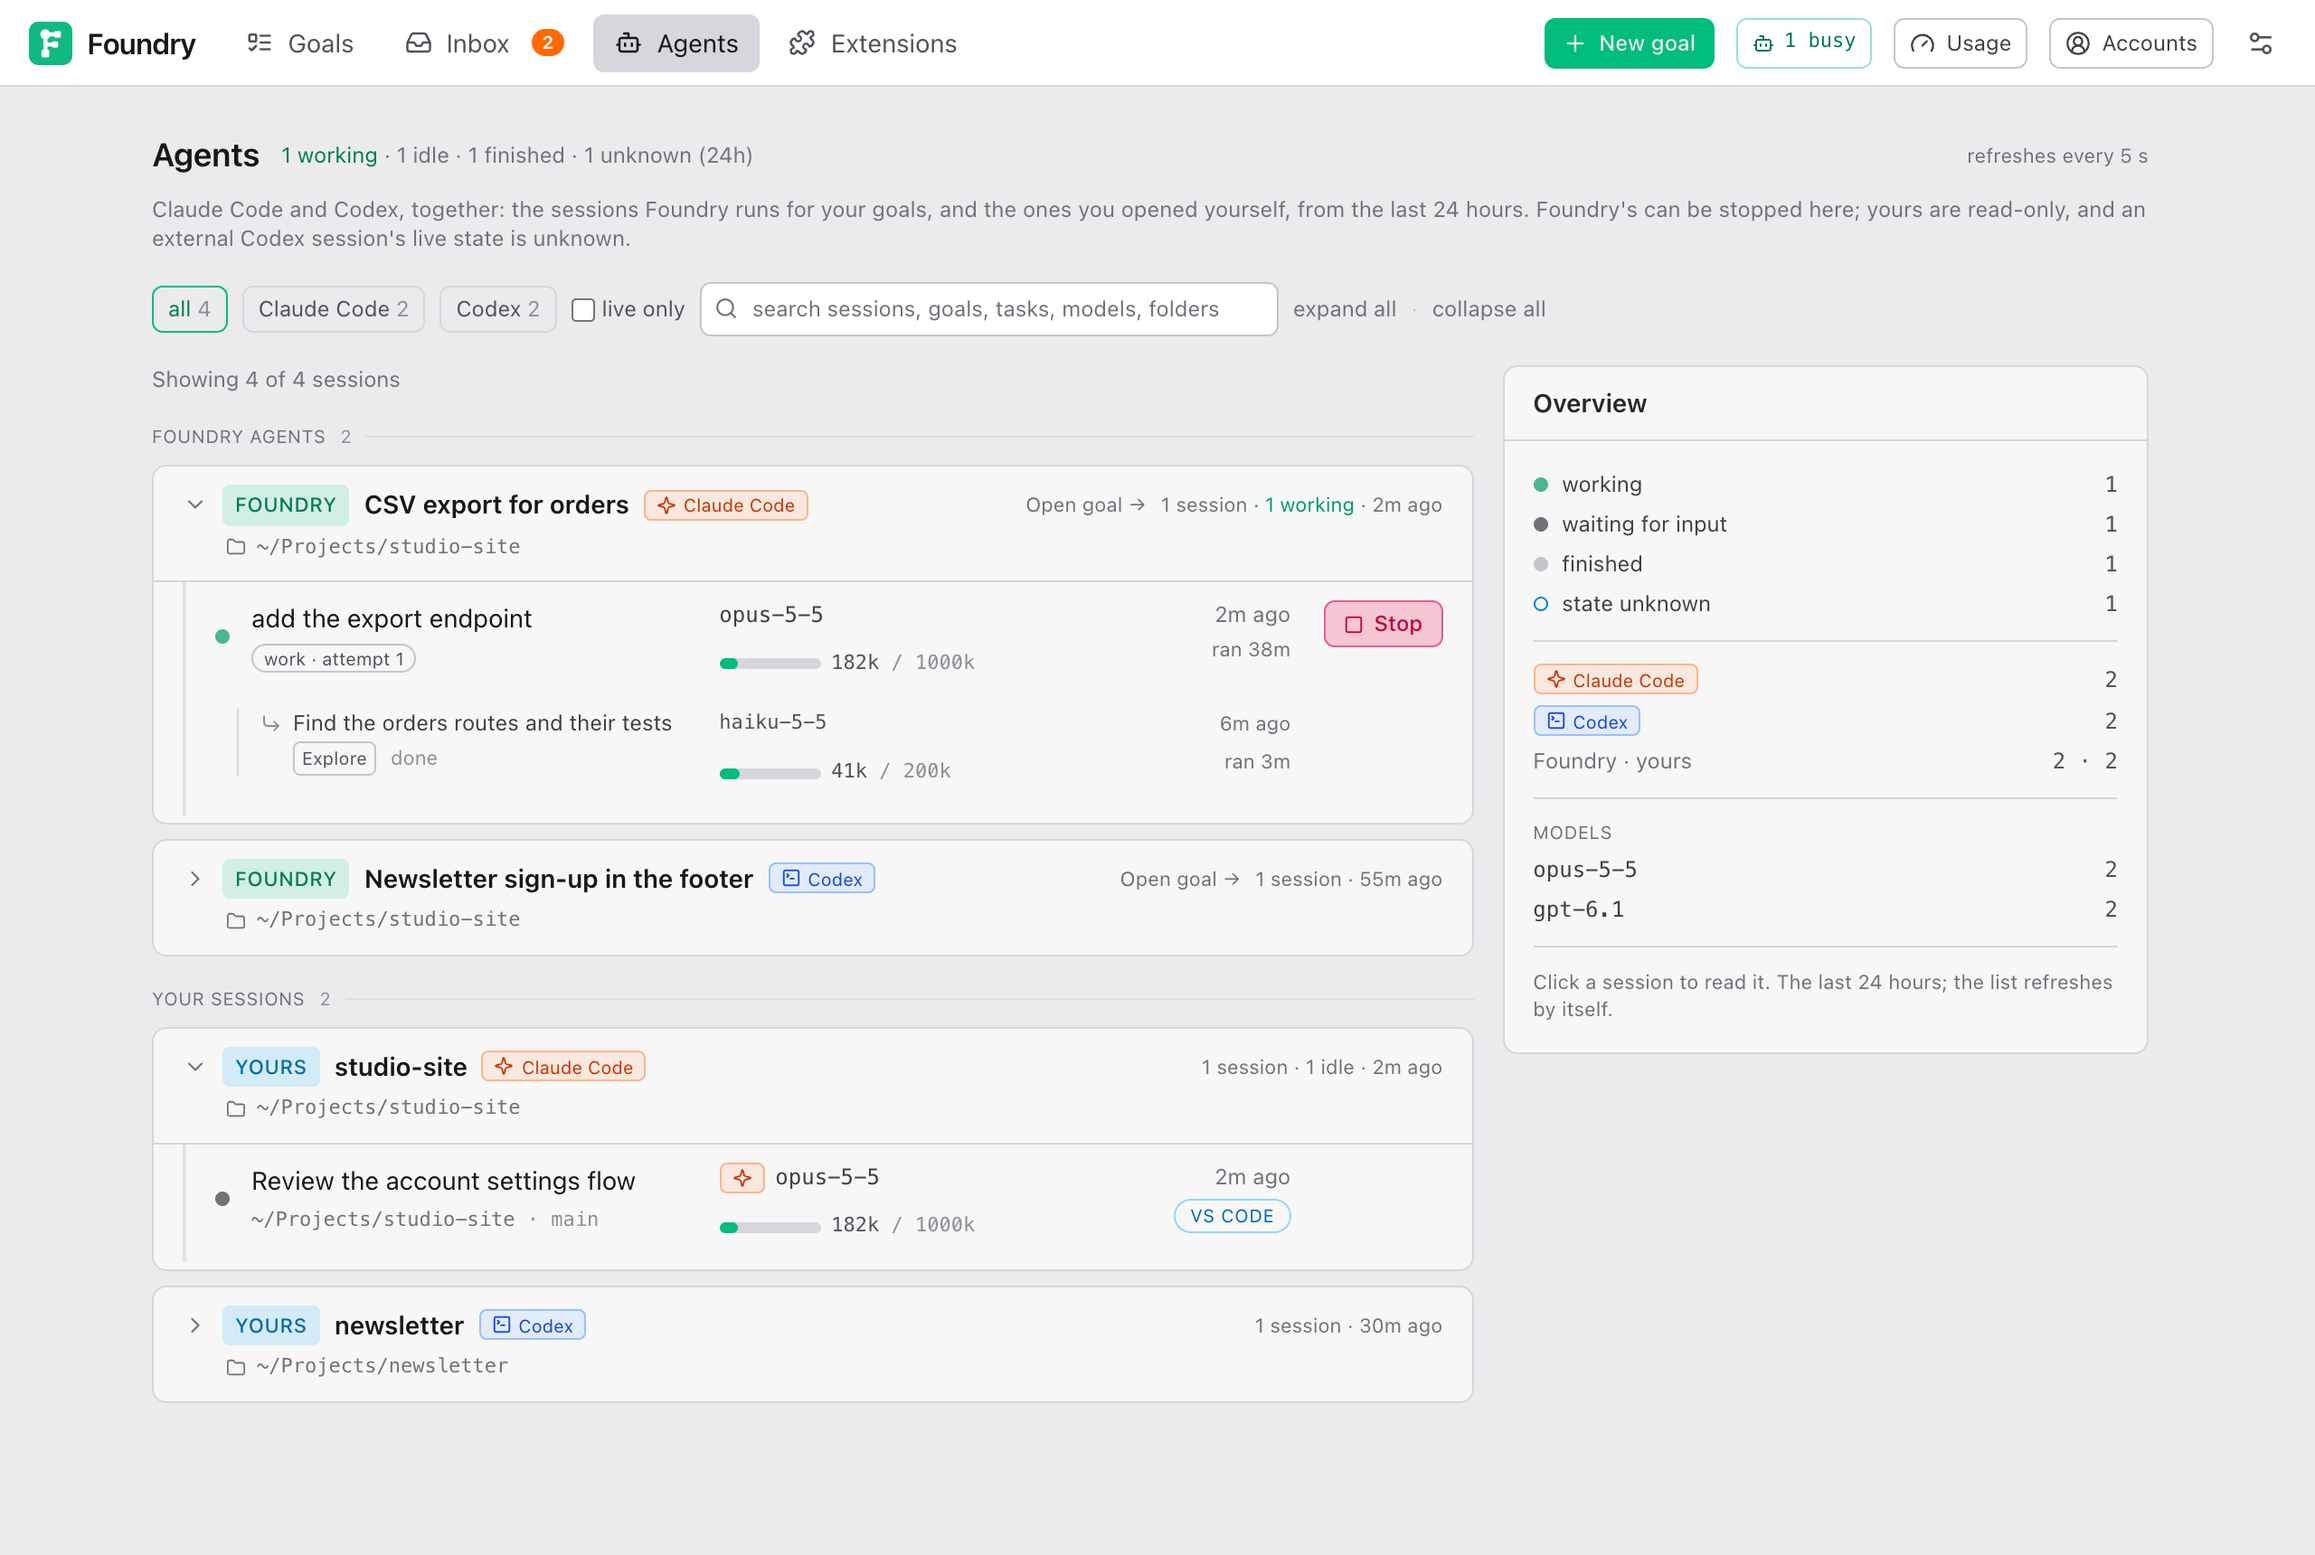
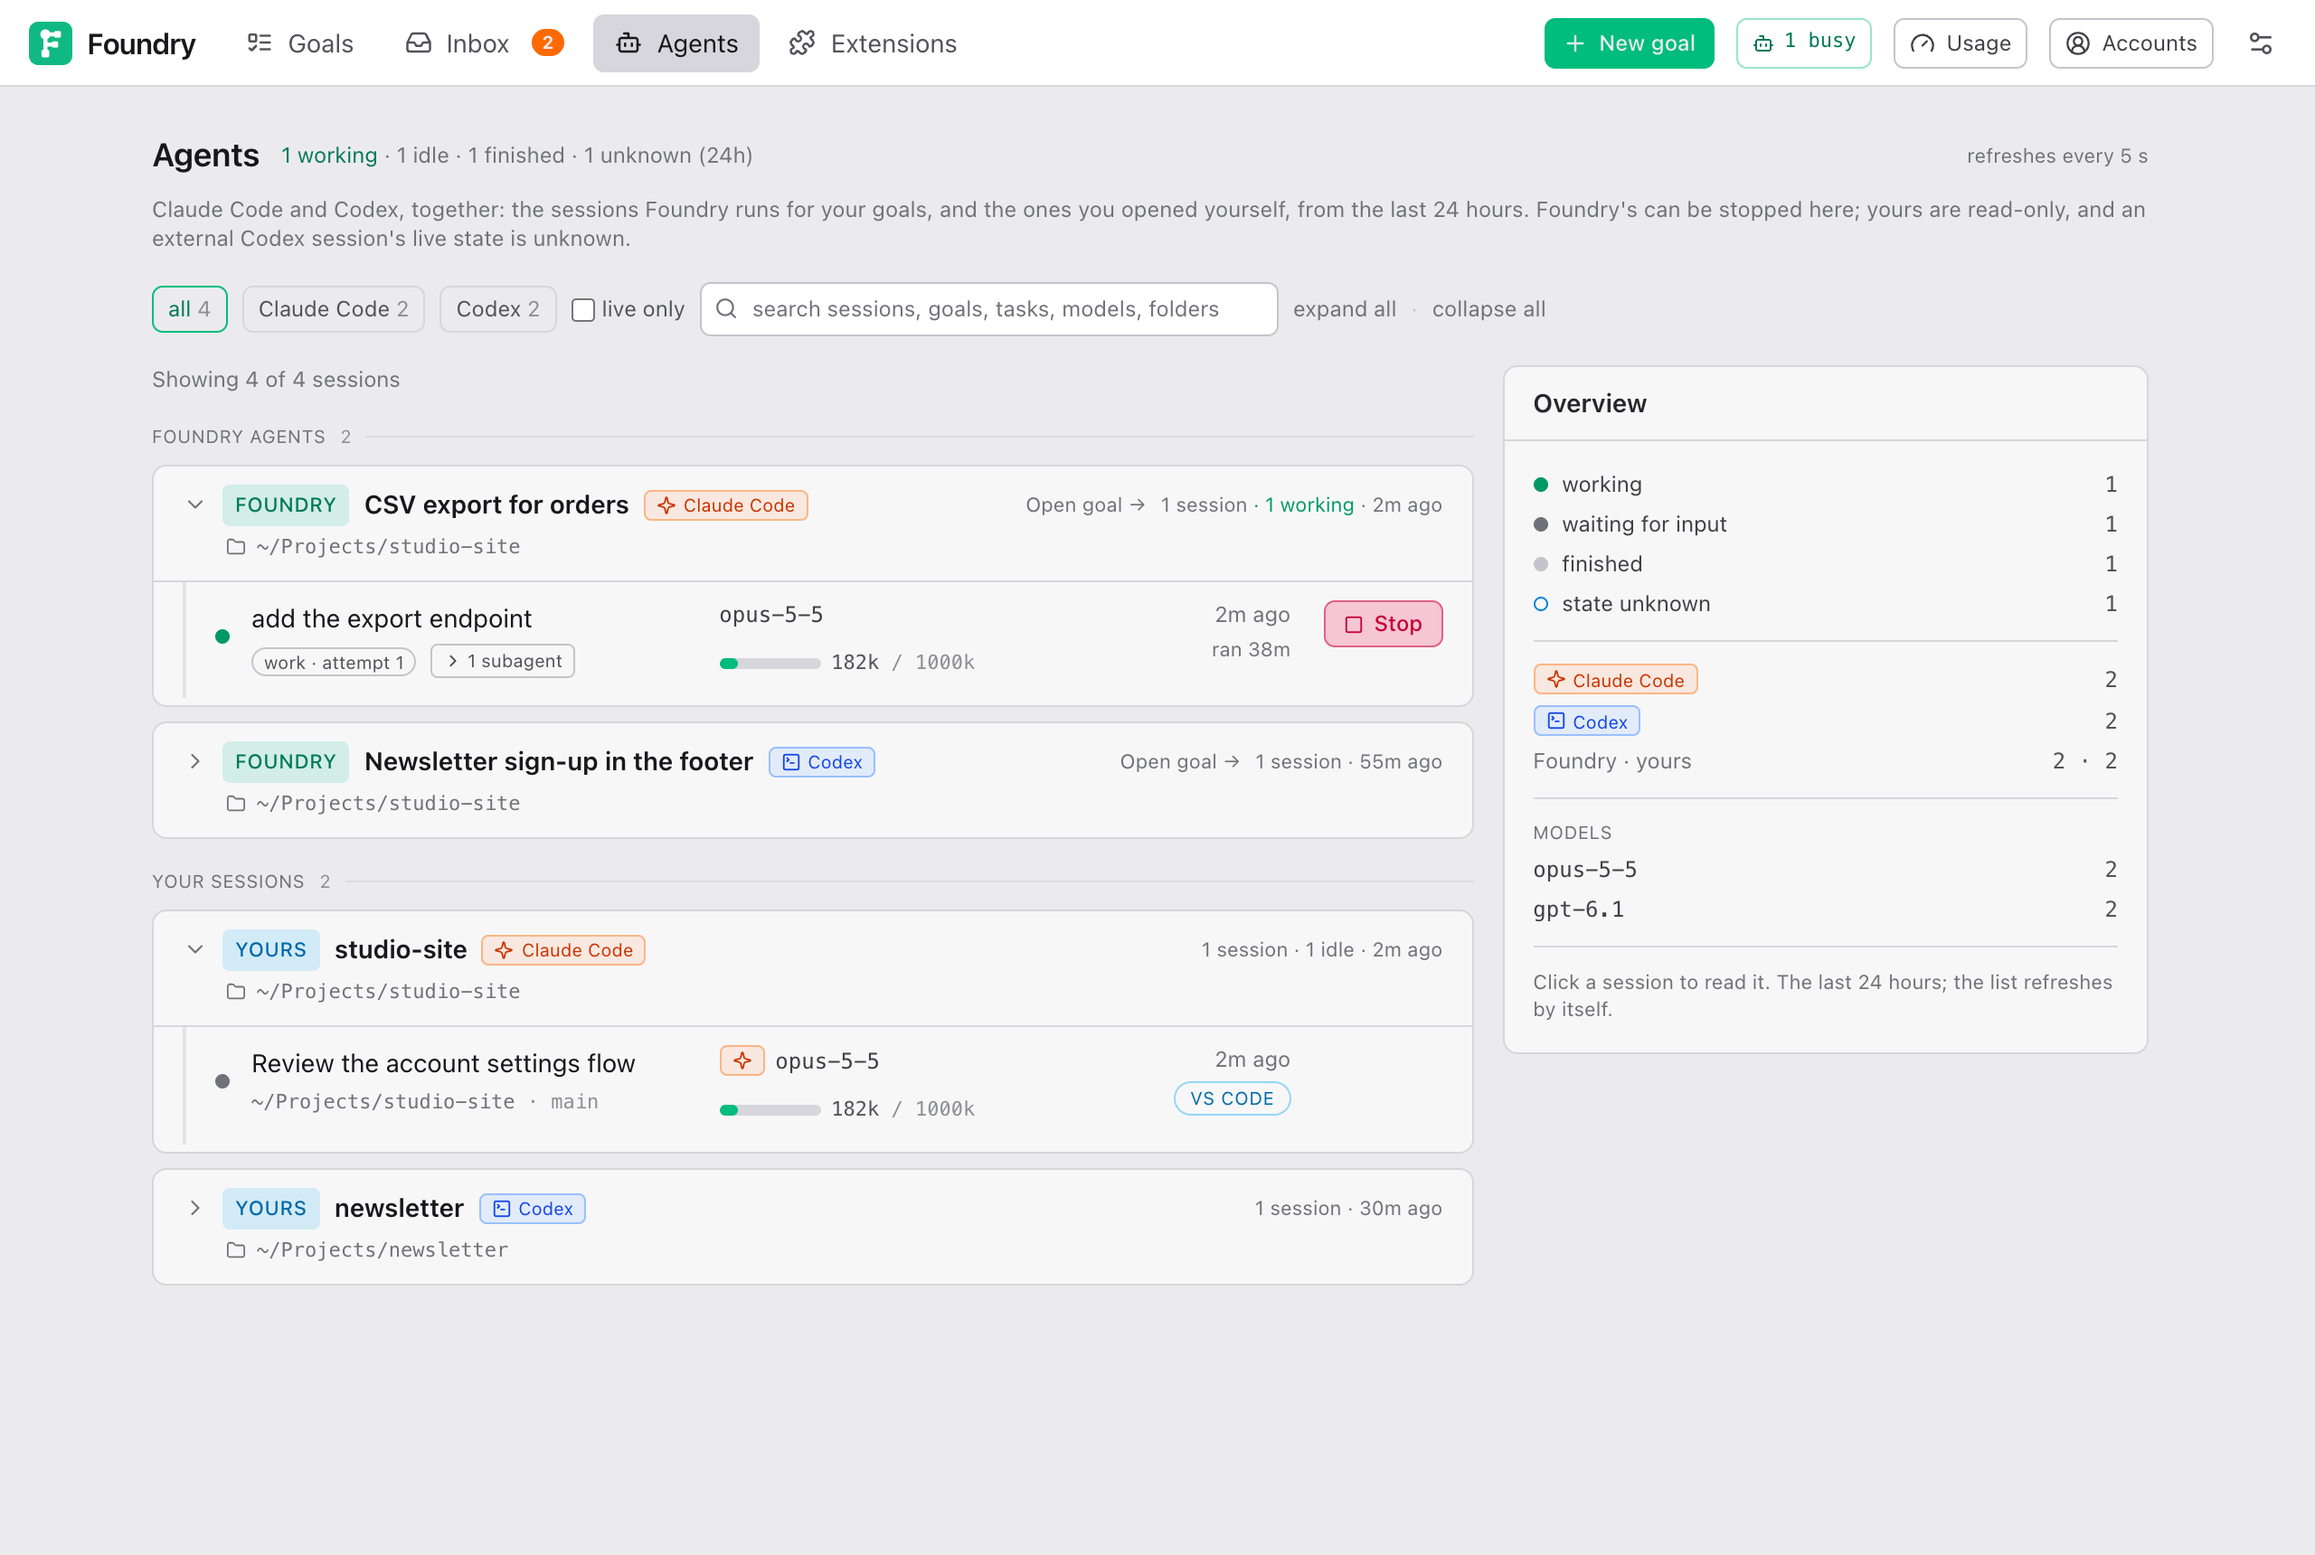
feat(web): a session's subagents fold under it on the Agents page
A session with helper agents gets an N subagents button in its row (marked running while one runs): its helpers show while one of them runs and fold otherwise, the person's choice is remembered in this browser, and pressing it never opens the session. The guide (English and 中文) and its Agents screenshot follow.

diff --git a/apps/web/src/pages/agents/AgentsPage.tsx b/apps/web/src/pages/agents/AgentsPage.tsx
@@ -168,6 +168,10 @@ export function AgentsPage() {
 }
 
 const COLLAPSED_KEY = 'foundry.agents.collapsed';
+const SUBS_KEY = 'foundry.agents.subagents';
+function readSubs(): Record<string, boolean> {
+  try { return JSON.parse(localStorage.getItem(SUBS_KEY) ?? '{}'); } catch { return {}; }
+}
 function readCollapsed(): Record<string, boolean> {
   try { return JSON.parse(localStorage.getItem(COLLAPSED_KEY) ?? '{}'); } catch { return {}; }
 }
@@ -287,6 +291,15 @@ const title = (s: AgentSessionRow) => s.foundry?.taskTitle ?? s.title ?? s.found
  * group the goal and its coding agent are in the heading, so rows skip them.
  */
 function SessionList({ rows, inGoal = false, onOpen, onKill }: { rows: AgentSessionRow[]; inGoal?: boolean; onOpen: (sessionId: string, agentId?: string) => void; onKill: (row: AgentSessionRow) => void }) {
+  // a session's helper agents fold under it: open while one of them runs, until the person chooses (this browser)
+  const [subs, setSubs] = useState<Record<string, boolean>>(readSubs);
+  const subsOpen = (s: AgentSessionRow) => subs[s.sessionId] ?? s.subagents.some((a) => a.status === 'running');
+  const toggleSubs = (s: AgentSessionRow) =>
+    setSubs((m) => {
+      const next = { ...m, [s.sessionId]: !subsOpen(s) };
+      try { localStorage.setItem(SUBS_KEY, JSON.stringify(next)); } catch { /* private mode */ }
+      return next;
+    });
   return (
     <ul className="divide-y divide-zinc-800/70">
       {rows.map((s, i) => (
@@ -300,6 +313,20 @@ function SessionList({ rows, inGoal = false, onOpen, onKill }: { rows: AgentSess
                 {s.foundry && s.foundry.taskTitle && s.title && s.title.replace(/^#+\s*/, '') !== s.foundry.taskTitle && <span className="truncate" title={s.title}>{s.title.replace(/^#+\s*/, '')}</span>}
                 {!s.foundry && s.cwd && <span className="mono truncate" title={s.cwd}>{shortCwd(s.cwd)}{s.gitBranch ? <span className="text-zinc-600"> · {s.gitBranch}</span> : null}</span>}
                 {s.status === 'unknown' && <span className="text-sky-400 whitespace-nowrap">status unknown</span>}
+                {s.subagents.length > 0 && (
+                  <button
+                    type="button"
+                    className="inline-flex items-center gap-0.5 shrink-0 rounded border border-zinc-700 px-1.5 py-px text-[10px] text-zinc-400 hover:text-zinc-100 hover:border-zinc-500"
+                    aria-expanded={subsOpen(s)}
+                    title={subsOpen(s) ? 'Fold its helper agents' : 'Show its helper agents'}
+                    onClick={(e) => { e.stopPropagation(); toggleSubs(s); }}
+                    onKeyDown={(e) => e.stopPropagation()}
+                  >
+                    {subsOpen(s) ? <ChevronDown size={11} aria-hidden="true" /> : <ChevronRight size={11} aria-hidden="true" />}
+                    {s.subagents.length} subagent{s.subagents.length === 1 ? '' : 's'}
+                    {s.subagents.some((a) => a.status === 'running') && <span className="text-emerald-400"> · running</span>}
+                  </button>
+                )}
               </div>
             </div>
             <div className="min-w-0 space-y-1">
@@ -321,7 +348,7 @@ function SessionList({ rows, inGoal = false, onOpen, onKill }: { rows: AgentSess
               )}
             </div>
           </div>
-          {s.subagents.length > 0 && (
+          {s.subagents.length > 0 && subsOpen(s) && (
             <ul className="pb-2">
               {s.subagents.map((a) => (
                 <li key={a.agentId}>

diff --git a/docs/guide/while-it-runs.md b/docs/guide/while-it-runs.md
@@ -269,6 +269,6 @@ The buttons above the list (**all**, **Claude Code**, **Codex**, each with its c
 - **Foundry agents**: sessions Foundry started for your goals, one card per goal. Each card's heading shows the goal, its coding agent, its project folder, how many sessions it has and how many are working; **Open goal →** goes to the goal page. Click a heading to collapse or expand the card. A card starts expanded while one of its sessions is working or idle (or when it is the only one); Foundry remembers your choice in this browser, and a search expands every card. A running session can be stopped with its red **Stop** button, after you confirm. A row names the task the session worked on, with a **work** or **merge** chip and its attempt number; **merge** sessions bring a branch up to date during integration or delivery.
 - **Your sessions**: sessions you opened yourself (in a terminal, in VS Code), one card per folder, folding the same way. Foundry only watches them, never touches them.
 
-Each row stacks what the session is (its title, and for your own sessions its folder and branch), what runs it (the coding agent's icon — orange for Claude Code, blue for Codex — the model and context usage when available) and when (last activity, and how long it ran or where it was opened). Helper agents appear indented under the session that started them, each with its description, type, status, model, context usage, last activity and how long it ran. Click a row to follow its conversation: like a task's live log, every message is one line, and clicking a line opens the whole message in a window. The header counts sessions **working**, **idle**, **finished** and **unknown** in the last 24 hours. External Codex sessions and their children have unknown process status; they do not increase the known-busy count. While any session is working, a small **N busy** pill in the top bar says how many.
+Each row stacks what the session is (its title, and for your own sessions its folder and branch), what runs it (the coding agent's icon — orange for Claude Code, blue for Codex — the model and context usage when available) and when (last activity, and how long it ran or where it was opened). Helper agents appear indented under the session that started them, each with its description, type, status, model, context usage, last activity and how long it ran. They fold under the session's **N subagents** button: open while one of them runs, folded otherwise, and Foundry remembers your choice in this browser. Click a row to follow its conversation: like a task's live log, every message is one line, and clicking a line opens the whole message in a window. The header counts sessions **working**, **idle**, **finished** and **unknown** in the last 24 hours. External Codex sessions and their children have unknown process status; they do not increase the known-busy count. While any session is working, a small **N busy** pill in the top bar says how many.
 
 A session that is **idle** for a long time while its goal says running is worth a look; the task's live log usually says why.

diff --git a/docs/guide/while-it-runs.zh.md b/docs/guide/while-it-runs.zh.md
@@ -269,6 +269,6 @@ goal 相对起点改过的每个文件，以及各自新增和删除了多少行
 - **Foundry agents**：Foundry 为你的 goal 启动的会话，每个 goal 一张卡片。卡片标题显示 goal、它的编码智能体、项目文件夹、会话数量和正在工作的数量；**Open goal →** 打开 goal 页面。点标题可以收起或展开卡片。卡片里有会话在工作或 idle 时（或者只有一张卡片时）默认展开；你的选择会记在这个浏览器里，搜索时所有卡片都会展开。运行中的会话可以用红色的 **Stop** 按钮停止，确认后生效。每一行写明会话处理的任务，带 **work** 或 **merge** 标签和第几次尝试；**merge** 会话在集成或交付时把某个分支更新到最新。
 - **Your sessions**：你自己打开的会话（在终端里、在 VS Code 里），每个文件夹一张卡片，同样可以收起展开。Foundry 只看着，从不碰它们。
 
-每一行把信息叠在一起：会话是什么（标题；你自己的会话还有文件夹和分支）、由什么运行（编码智能体图标——Claude Code 橙色、Codex 蓝色——以及模型和可用的上下文用量）、什么时候（最后活跃时间，以及运行了多久或在哪里打开）。助手 agent 缩进显示在启动它们的会话下面，每个都显示描述、类型、状态、模型、上下文用量、最后活跃时间和运行时长。点一行可以跟看它的对话：和任务的实时日志一样，每条消息占一行，点一行就在窗口里打开整条消息。标题栏统计过去 24 小时内 **working**、**idle**、**finished** 和 **unknown** 的会话数。外部 Codex 会话及其子会话的进程状态未知，不计入已知忙碌数量。有会话在工作时，顶栏上一个小的 **N busy** 标签显示有几个。
+每一行把信息叠在一起：会话是什么（标题；你自己的会话还有文件夹和分支）、由什么运行（编码智能体图标——Claude Code 橙色、Codex 蓝色——以及模型和可用的上下文用量）、什么时候（最后活跃时间，以及运行了多久或在哪里打开）。助手 agent 缩进显示在启动它们的会话下面，每个都显示描述、类型、状态、模型、上下文用量、最后活跃时间和运行时长。它们收在会话的 **N subagents** 按钮下：有一个正在运行时默认展开，否则收起；你的选择会记在这个浏览器里。点一行可以跟看它的对话：和任务的实时日志一样，每条消息占一行，点一行就在窗口里打开整条消息。标题栏统计过去 24 小时内 **working**、**idle**、**finished** 和 **unknown** 的会话数。外部 Codex 会话及其子会话的进程状态未知，不计入已知忙碌数量。有会话在工作时，顶栏上一个小的 **N busy** 标签显示有几个。
 
 如果某个会话长时间 **idle**，而它的 goal 显示正在运行，就值得看一眼；任务的实时日志通常会说明原因。
